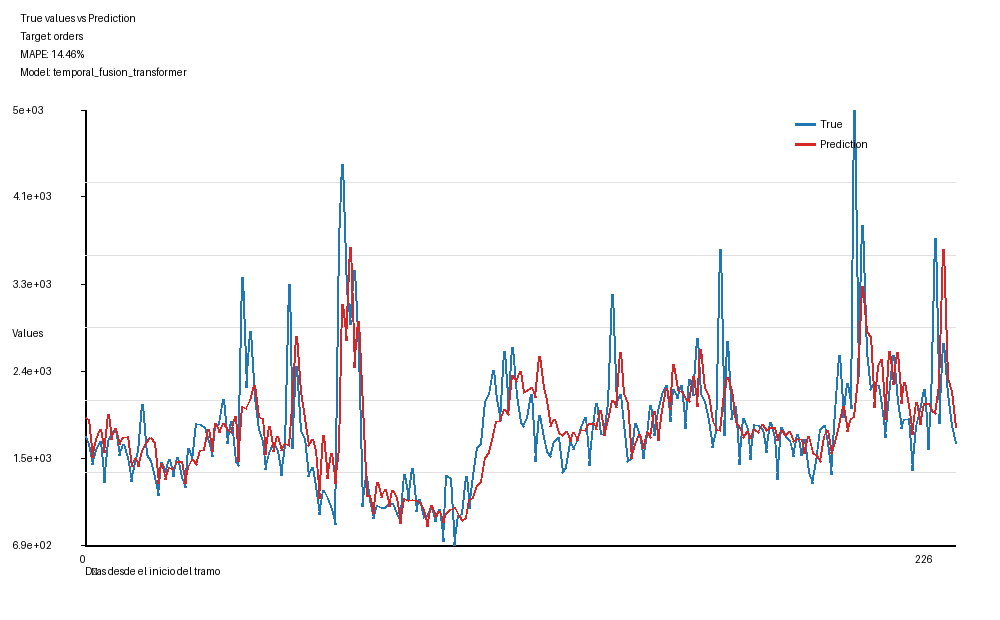
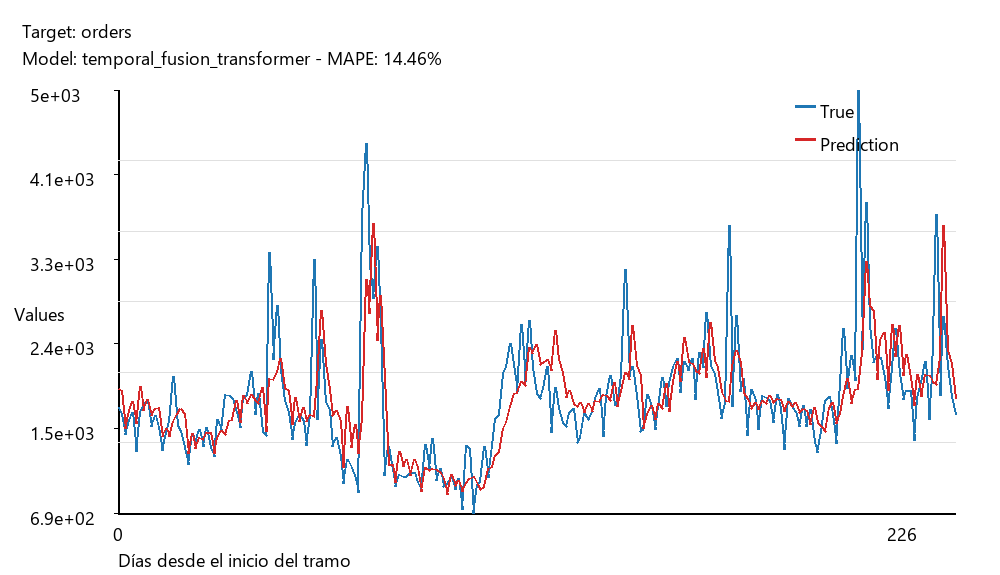
Enhance EDA with new plotting functionality for NeuralProphet predictions. Update README with usage instructions for the new plot command. Refactor plotting functions to improve font handling and layout for better visualization. Update existing plots for baseline and temporal fusion transformer mode

diff --git a/eda/metric_plots.py b/eda/metric_plots.py
@@ -1,6 +1,7 @@
 from __future__ import annotations
 
 import json
+import os
 from pathlib import Path
 from typing import Any
 
@@ -154,8 +155,74 @@ def _plot_kde(ax: Any, values: np.ndarray) -> None:
     ax.plot(x_grid, y_grid, color="#2f76bd", linewidth=2)
 
 
-def _draw_text(draw: ImageDraw.ImageDraw, position: tuple[int, int], text: str, fill: str = "black") -> None:
-    draw.text(position, text, fill=fill, font=ImageFont.load_default())
+# Tamaños en px (TrueType): cuerpo/títulos/leyenda; eje X un ~1.5× más grande que el cuerpo.
+_TRUE_VS_PRED_AXIS_FONT_BASE = 12
+_TRUE_VS_PRED_DATE_LABEL_SCALE = 1.5
+_TRUE_VS_PRED_BODY_FONT_PX = max(
+    8, int(round(_TRUE_VS_PRED_AXIS_FONT_BASE * _TRUE_VS_PRED_DATE_LABEL_SCALE))
+)
+_TRUE_VS_PRED_X_FONT_PX = max(
+    10, int(round(_TRUE_VS_PRED_BODY_FONT_PX))
+)
+_TRUE_VS_PRED_TITLE_LINE_SKIP = int(round(18 * _TRUE_VS_PRED_DATE_LABEL_SCALE))
+
+
+def _pillow_truetype_candidates() -> list[Path]:
+    """Rutas típicas con glifos Latin-1 / Unicode (acentos en español)."""
+    windir = os.environ.get("WINDIR", r"C:\Windows")
+    return [
+        Path(windir) / "Fonts" / "segoeui.ttf",
+        Path(windir) / "Fonts" / "arial.ttf",
+        Path(windir) / "Fonts" / "calibri.ttf",
+        Path("/usr/share/fonts/truetype/dejavu/DejaVuSans.ttf"),
+        Path("/usr/share/fonts/truetype/liberation/LiberationSans-Regular.ttf"),
+        Path("/Library/Fonts/Arial.ttf"),
+        Path("/System/Library/Fonts/Supplemental/Arial.ttf"),
+        Path("/System/Library/Fonts/Supplemental/Arial Unicode.ttf"),
+        Path("/System/Library/Fonts/Helvetica.ttc"),
+    ]
+
+
+def _pillow_truetype(size: int) -> ImageFont.FreeTypeFont | None:
+    for path in _pillow_truetype_candidates():
+        if not path.is_file():
+            continue
+        try:
+            if path.suffix.lower() == ".ttc":
+                return ImageFont.truetype(str(path), size=size, index=0)
+            return ImageFont.truetype(str(path), size=size)
+        except OSError:
+            continue
+    return None
+
+
+def _pillow_font(size: int | None = None, *, unicode_glyphs: bool = False) -> ImageFont.ImageFont:
+    """
+    Fuente para Pillow. Con ``unicode_glyphs=True`` intenta TrueType del sistema
+    (necesario para acentos: í, á, ñ, …). Si no hay ninguna, cae al bitmap por defecto
+    (puede omitir o deformar acentos).
+    """
+    px = 10 if size is None else int(size)
+    if unicode_glyphs:
+        ttf = _pillow_truetype(px)
+        if ttf is not None:
+            return ttf
+    if size is None:
+        return ImageFont.load_default()
+    try:
+        return ImageFont.load_default(size=px)
+    except TypeError:
+        return ImageFont.load_default()
+
+
+def _draw_text(
+    draw: ImageDraw.ImageDraw,
+    position: tuple[int, int],
+    text: str,
+    fill: str = "black",
+    font: ImageFont.ImageFont | None = None,
+) -> None:
+    draw.text(position, text, fill=fill, font=font or ImageFont.load_default())
 
 
 def _plot_mape_distribution_with_pillow(
@@ -344,8 +411,18 @@ def _plot_true_vs_predictions_pillow(
     x_label: str,
 ) -> None:
     """Gráfico True vs Pred sin matplotlib (evita bugs de savefig en algunos entornos)."""
-    width, height = 1000, 620
-    left, right, top, bottom = 85, 45, 110, 75
+    font_body = _pillow_font(_TRUE_VS_PRED_BODY_FONT_PX, unicode_glyphs=True)
+    font_x = _pillow_font(_TRUE_VS_PRED_X_FONT_PX, unicode_glyphs=True)
+
+    width, height = 1000, 575
+    left, right, bottom = 118, 45, 62
+    skip = _TRUE_VS_PRED_TITLE_LINE_SKIP
+    pad_top = 18
+    pad_below_titles = 18
+    n_titles = len(title_lines)
+    title_block = pad_top + max(0, n_titles) * skip + pad_below_titles
+    # Menos líneas de título -> menos margen superior -> más alto el área del gráfico
+    top = min(140, max(76, title_block))
     pw, ph = width - left - right, height - top - bottom
 
     img = Image.new("RGB", (width, height), "white")
@@ -387,31 +464,39 @@ def _plot_true_vs_predictions_pillow(
     draw.line(pts_t, fill="#1f77b4", width=2)
     draw.line(pts_p, fill="#d62728", width=2)
 
-    ty = 12
+    ty = pad_top
     for line in title_lines:
-        _draw_text(draw, (20, ty), line)
-        ty += 18
+        _draw_text(draw, (22, ty), line, font=font_body)
+        ty += skip
 
-    _draw_text(draw, (left, height - 55), x_label)
-    _draw_text(draw, (12, top + ph // 2), "Values")
+    _draw_text(draw, (14, top + ph // 2), "Values", font=font_body)
 
     # Ticks Y (5)
+    y_lbl_w = 88
     for k in range(0, 6):
         yy = y_min + (k / 5) * span_y
         ypix = px_y(yy)
         draw.line((left - 4, ypix, left, ypix), fill="black", width=1)
-        _draw_text(draw, (left - 72, ypix - 6), f"{yy:.2g}")
+        _draw_text(draw, (left - y_lbl_w, ypix - 8), f"{yy:.2g}", font=font_body)
 
-    # Ticks X (inicio, fin)
-    _draw_text(draw, (left - 5, top + ph + 8), f"{x_min:.4g}")
-    _draw_text(draw, (left + pw - 40, top + ph + 8), f"{x_max:.4g}")
+    # Ticks X (inicio, fin) y leyenda del eje, pegados bajo el eje para acortar la imagen
+    x_num_y = top + ph + 8
+    _draw_text(draw, (left - 5, x_num_y), f"{x_min:.4g}", font=font_x)
+    _draw_text(draw, (left + pw - 68, x_num_y), f"{x_max:.4g}", font=font_x)
+    x_label_y = x_num_y + 26
+    _draw_text(draw, (left, x_label_y), x_label, font=font_x)
 
     # Leyenda simple
-    leg_y = top + 8
+    leg_gap = int(round(22 * _TRUE_VS_PRED_DATE_LABEL_SCALE))
+    leg_y = top + 10
     draw.line((left + pw - 160, leg_y + 6, left + pw - 140, leg_y + 6), fill="#1f77b4", width=3)
-    _draw_text(draw, (left + pw - 135, leg_y), "True")
-    draw.line((left + pw - 160, leg_y + 26, left + pw - 140, leg_y + 26), fill="#d62728", width=3)
-    _draw_text(draw, (left + pw - 135, leg_y + 20), "Prediction")
+    _draw_text(draw, (left + pw - 135, leg_y - 2), "True", font=font_body)
+    draw.line(
+        (left + pw - 160, leg_y + leg_gap + 6, left + pw - 140, leg_y + leg_gap + 6),
+        fill="#d62728",
+        width=3,
+    )
+    _draw_text(draw, (left + pw - 135, leg_y + leg_gap - 2), "Prediction", font=font_body)
 
     img.save(output_path)
 
@@ -482,10 +567,8 @@ def plot_true_vs_predictions(
 
     title_extra = f"Product: {product_id}" if product_id else f"Target: {target_col}"
     title_lines = [
-        "True values vs Prediction",
         title_extra,
-        f"MAPE: {mape_pct:.2f}%",
-        f"Model: {model_name}",
+        f"Model: {model_name} - MAPE: {mape_pct:.2f}%",
     ]
     _plot_true_vs_predictions_pillow(out, x, y_t, y_p, title_lines, x_label)
     if show:

diff --git a/README.md b/README.md
@@ -305,6 +305,13 @@ python -m eda.cli plot-predictions baseline_tm7_sw8_blend \
   --no-show
 
 
+python -m eda.cli plot-predictions neuralprophet \
+  --input-path reports/eda/models/mape_distribution.jsonl \
+  --output-path reports/eda/plots/true_vs_pred_neuralprophet.png \
+  --target-col orders \
+  --no-show
+
+
 # Serie diaria (sin sumar); --group-months solo espacia las marcas del eje X (p. ej. cada 3 meses)
 python -m eda.cli plot-orders-events --group-months 3 --no-show --output-path reports/eda/plots/orders_with_events.png
 